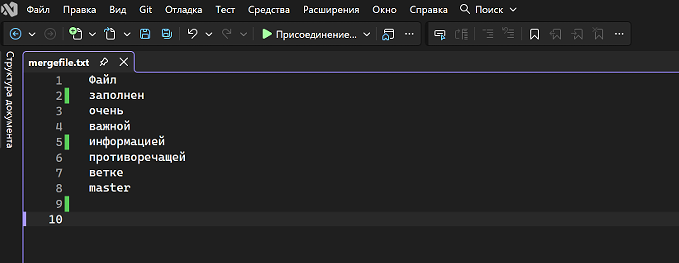
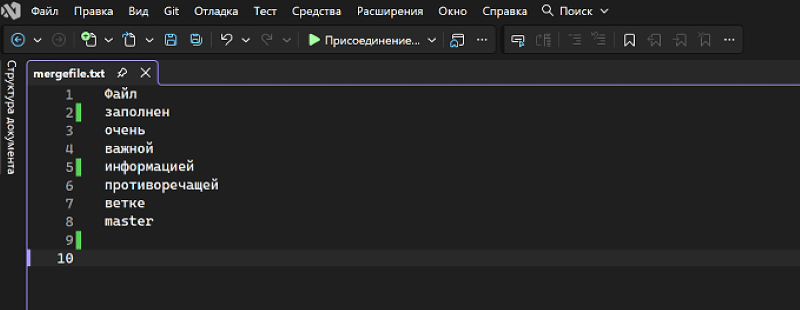
Обновлены скриншоты отчета

diff --git a/README.md b/README.md
@@ -171,7 +171,7 @@
 Для объединения изменений использовалась команда `git merge branch1` (рис.15).
 
 <p align="center">
-  <img src="screen/конфликт.png" alt="Создание конфликта">
+  <img src="screen/конфликт.jpg" alt="Создание конфликта">
   <br>
   <em>Рисунок 15 — возникновение конфликта при слиянии.</em>
 </p>
@@ -253,7 +253,7 @@
 После выполнения команды была проверена история коммитов с помощью `git log` (рис.24).
 
 <p align="center">
-  <img src="screen/гит%20лог%20без%20удаление%20коммита.jpg" alt="История до отмены коммита">
+  <img src="screen/гит%20лог%20без%20удаление%20коммита.png" alt="История до отмены коммита">
   <br>
   <em>Рисунок 23 — просмотр истории коммитов перед отменой последнего коммита.</em>
 </p>
@@ -273,7 +273,7 @@
 Для создания и переключения на новую ветку использовалась команда `git switch -c report` (рис.25).
 
 <p align="center">
-  <img src="screen/переключение%20репозитория.jpg" alt="Переключение ветки">
+  <img src="screen/переключение%20репозитория.png" alt="Переключение ветки">
   <br>
   <em>Рисунок 25 — переключение на ветку для отчёта.</em>
 </p>
